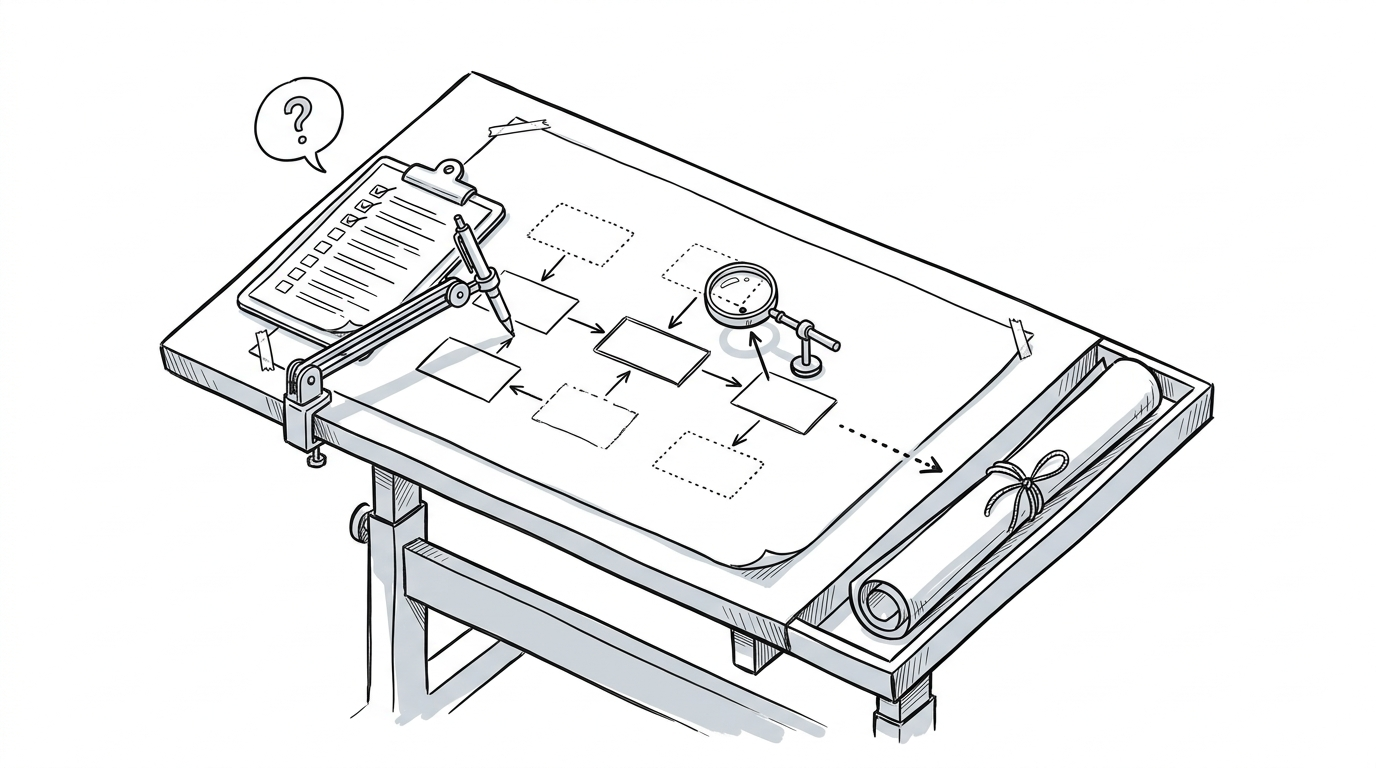
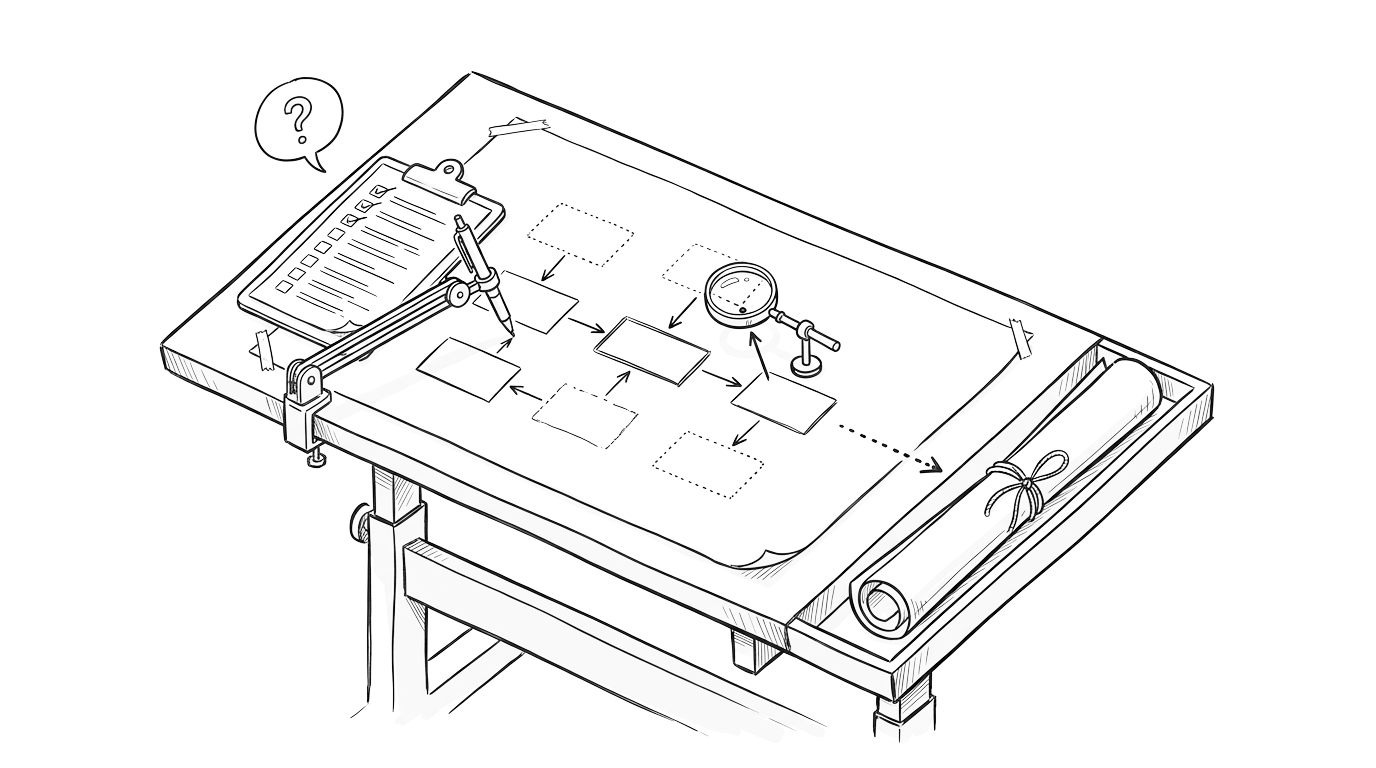
fix: show boxr art and link to live project sites
The new art PNGs were opaque JPG conversions, so the alpha mask in Art
painted a solid block. Rebuild them with transparent paper.

Live sites (non-video demos) now open in a normal tab from a Visit button
on the project page and a Visit live site link on the featured card.

diff --git a/components/sections/projects.tsx b/components/sections/projects.tsx
@@ -2,9 +2,9 @@
 
 import { useState } from "react"
 import Link from "next/link"
-import { ArrowUpRight, FileText, Github, Play } from "lucide-react"
+import { ArrowUpRight, ExternalLink, FileText, Github, Play } from "lucide-react"
 import { cn } from "@/lib/utils"
-import { artFor, projects, type Project } from "@/lib/projects"
+import { artFor, liveSiteFor, projects, type Project } from "@/lib/projects"
 import { Art } from "@/components/art"
 import { Reveal, StaggerItem, StaggerRoot } from "@/components/motion/reveal"
 
@@ -134,9 +134,12 @@ function CardArt({ project }: { project: Project }) {
 function FeaturedCard({ project, index }: { project: Project; index: number }) {
   const hook = project.description.split(". ")[0].replace(/\.$/, "") + "."
 
+  const liveSite = liveSiteFor(project)
+
+  // Stretched link: the title's ::after covers the card, so the live-site
+  // anchor can sit on top without nesting <a> inside <a>.
   return (
-    <Link href={`/projects/${project.slug}`} className="block group">
-      <article className="relative rounded-xl border border-border bg-card p-6 md:p-7 hover:border-primary/50 transition-all duration-300 overflow-hidden">
+    <article className="group relative rounded-xl border border-border bg-card p-6 md:p-7 hover:border-primary/50 transition-all duration-300 overflow-hidden">
         <CardArt project={project} />
         <div className="absolute top-5 right-5 text-muted-foreground group-hover:text-primary group-hover:translate-x-0.5 group-hover:-translate-y-0.5 transition-all">
           <ArrowUpRight className="w-5 h-5" />
@@ -165,7 +168,9 @@ function FeaturedCard({ project, index }: { project: Project; index: number }) {
         </div>
 
         <h3 className="text-xl md:text-2xl font-bold mb-2 group-hover:text-primary transition-colors pr-8">
-          {project.title}
+          <Link href={`/projects/${project.slug}`} className="after:absolute after:inset-0 after:content-['']">
+            {project.title}
+          </Link>
         </h3>
         <p className="text-sm md:text-[15px] text-muted-foreground leading-relaxed max-w-3xl mb-4">{hook}</p>
 
@@ -178,9 +183,19 @@ function FeaturedCard({ project, index }: { project: Project; index: number }) {
           <span className="text-xs font-mono text-muted-foreground">
             {project.technologies.slice(0, 5).join(" · ")}
           </span>
+          {liveSite && (
+            <a
+              href={liveSite}
+              target="_blank"
+              rel="noopener noreferrer"
+              className="relative z-10 inline-flex items-center gap-1.5 min-h-8 px-3 rounded-md border border-primary/40 bg-primary/10 text-xs font-medium text-primary hover:bg-primary/15 transition-colors sm:ml-auto"
+            >
+              Visit live site
+              <ExternalLink className="w-3.5 h-3.5" />
+            </a>
+          )}
         </div>
-      </article>
-    </Link>
+    </article>
   )
 }
 

diff --git a/app/projects/[slug]/page.tsx b/app/projects/[slug]/page.tsx
@@ -1,7 +1,7 @@
 import Link from "next/link"
 import { notFound } from "next/navigation"
 import { ArrowRight, ExternalLink, Github, FileText } from "lucide-react"
-import { artFor, getProjectBySlug, getAllProjectSlugs, projects, type Project } from "@/lib/projects"
+import { artFor, getProjectBySlug, getAllProjectSlugs, liveSiteFor, projects, type Project } from "@/lib/projects"
 import { Art } from "@/components/art"
 import { PopupLink } from "@/components/popup-link"
 import { BackButton } from "@/components/back-button"
@@ -40,6 +40,7 @@ export default async function ProjectPage({ params }: { params: Promise<{ slug: 
 
   const categories = project.category.length > 0 ? project.category : ["swe"]
   const hasImages = project.images && project.images.length > 0
+  const liveSite = liveSiteFor(project)
 
   const index = projects.findIndex((p) => p.slug === project.slug)
   const next = projects[(index + 1) % projects.length]
@@ -153,11 +154,23 @@ export default async function ProjectPage({ params }: { params: Promise<{ slug: 
                     Paper
                   </PopupLink>
                 )}
-                {project.demo && (
-                  <PopupLink href={project.demo} className={linkClass}>
+                {liveSite ? (
+                  <a
+                    href={liveSite}
+                    target="_blank"
+                    rel="noopener noreferrer"
+                    className={`${linkClass} border-primary/40 bg-primary/10 text-primary hover:bg-primary/15`}
+                  >
                     <ExternalLink className="w-4 h-4" />
-                    Demo
-                  </PopupLink>
+                    Visit {new URL(liveSite).host}
+                  </a>
+                ) : (
+                  project.demo && (
+                    <PopupLink href={project.demo} className={linkClass}>
+                      <ExternalLink className="w-4 h-4" />
+                      Demo
+                    </PopupLink>
+                  )
                 )}
               </div>
             )}

diff --git a/lib/projects.ts b/lib/projects.ts
@@ -72,6 +72,16 @@ export function artFor(project: Pick<Project, "slug" | "category">): string {
   return project.category.includes("ml") ? "/art/cat-ml.png" : "/art/cat-systems.png"
 }
 
+/**
+ * The demo URL when it's a site you can visit, not a video walkthrough. Live
+ * sites open in a normal tab; videos keep the popup player.
+ */
+export function liveSiteFor(project: Pick<Project, "demo">): string | undefined {
+  const demo = project.demo
+  if (!demo || /youtu\.?be/.test(demo)) return undefined
+  return demo
+}
+
 function toSlug(title: string): string {
   return title
     .toLowerCase()
